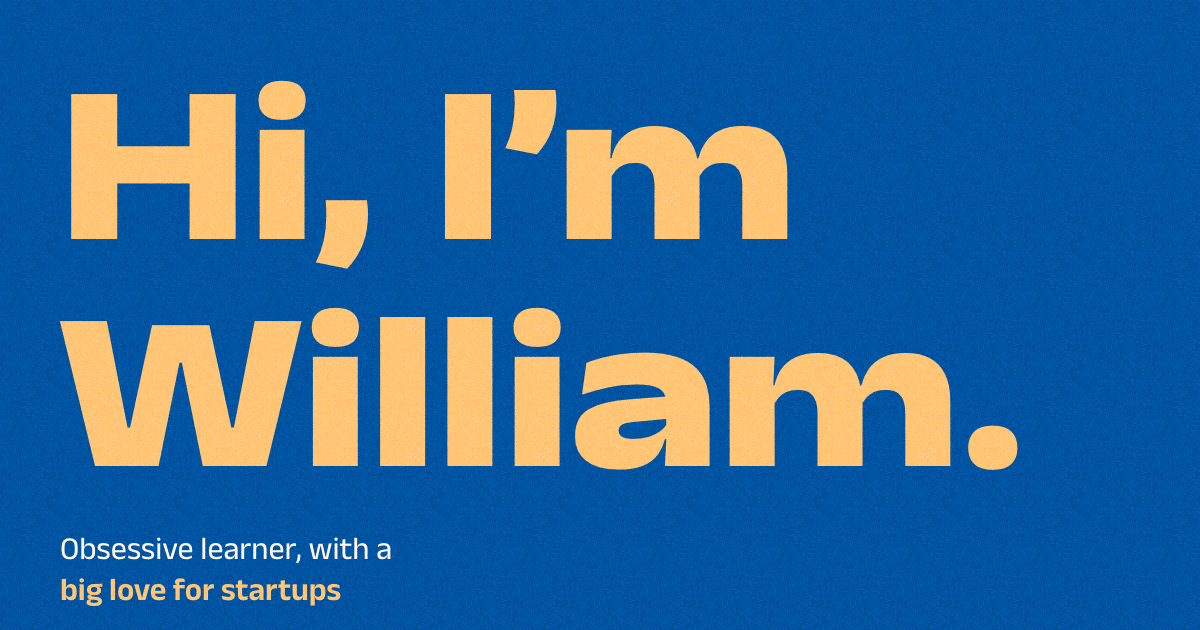
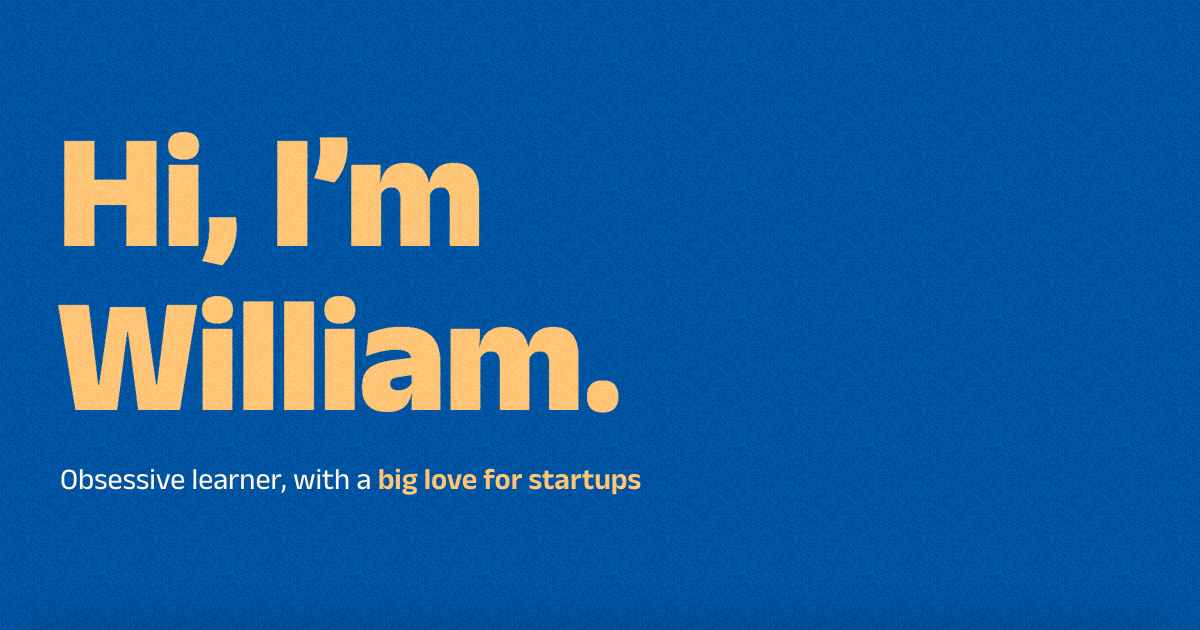
stretch the hero name under the mouse, and shrink it
The width-axis hover never showed on a laptop-shaped window. The name's
size is capped by the height there, so both lines rested at wdth 125, the
top of the axis, with no room to widen. Under a mouse the lines now rest
at wdth 100 at most, and the letters near the pointer swell to 125 while
the rest of the line squeezes. The line's total width is held exactly, so
it no longer runs past the margin when a letter stops at either end of
the axis. Touch screens keep lines that reach the right edge.

The name is capped at 26% of the hero's height instead of 31%, about 16%
smaller on desktop; phones are sized by their width and don't change. The
subtitle is one line, balanced onto two below 405px wide. The CSS
estimates follow both, so nothing jumps at load, and the share image is
retaken.

Changed region(s): [[0.0308, 0.4524, 0.8633, 0.7841], [0.0308, 0.1206, 0.6783, 0.4222], [0.0308, 0.8444, 0.3392, 0.9651]]

diff --git a/src/components/sections/Hero.tsx b/src/components/sections/Hero.tsx
@@ -8,6 +8,10 @@ import styles from "./Hero.module.css";
 const LINES = ["Hi, I’m", "William."];
 const MIN = 75;
 const MAX = 125;
+/** The widest a line rests at under a mouse: halfway along the axis. */
+const REST = 100;
+/** The name's size at most, as a fraction of the hero's height. */
+const HEIGHT = 0.26;
 
 type Letter = { el: HTMLElement; line: number; cx: number; cy: number; slope: number; p: number; w: number };
 
@@ -19,8 +23,9 @@ const fvs = (wdth: number) => `"wdth" ${wdth.toFixed(2)}, "wght" 800`;
  * Both lines share one size; each gets its own width (the font's `wdth` axis,
  * 75–125) so it reaches the right edge if it can. The name opens from its
  * narrowest once the font is in. Under a mouse, the letters nearest the
- * pointer widen and the rest of the line gives up the room, so its length
- * holds.
+ * pointer swell to the widest and the rest of the line squeezes to give up
+ * the room, so its length holds. For that to have room, a line under a mouse
+ * rests no wider than halfway along the axis.
  *
  * The server renders every letter at wdth 75 with a CSS estimate of the size,
  * which is exactly the animation's first frame: nothing jumps when this takes
@@ -52,7 +57,11 @@ export default function Hero() {
       })),
     );
     const reduce = prefersReducedMotion();
-    const hover = hasFinePointer() && !reduce;
+    // Under a mouse the lines rest at REST at most, reduced motion or not, so
+    // that only changes whether the name moves. A touch screen has nothing to
+    // make room for: there they reach the right edge.
+    const fine = hasFinePointer();
+    const hover = fine && !reduce;
 
     let base = lines.map(() => MIN);
     let fs = 0;
@@ -69,8 +78,9 @@ export default function Hero() {
     let my = 0;
     let disposed = false;
 
+    const rows = lines.map((_, i) => letters.filter((l) => l.line === i));
     const setLine = (i: number, wdth: number) => {
-      for (const l of letters) if (l.line === i) l.el.style.fontVariationSettings = fvs(wdth);
+      for (const l of rows[i]) l.el.style.fontVariationSettings = fvs(wdth);
     };
     const lineWidth = (i: number) => lines[i].getBoundingClientRect().width;
 
@@ -84,7 +94,7 @@ export default function Hero() {
       // One size for both lines, chosen so each can reach the full width
       // somewhere inside the axis range.
       name!.style.fontSize = "100px";
-      let hi = H * 0.31;
+      let hi = H * HEIGHT;
       let lo = 0;
       lines.forEach((_, i) => {
         setLine(i, MIN);
@@ -105,7 +115,7 @@ export default function Hero() {
           if (lineWidth(i) < W) a = m;
           else b = m;
         }
-        return a;
+        return fine ? Math.min(a, REST) : a;
       });
 
       // Each letter's width per unit of wdth, so the hover can widen some and
@@ -143,37 +153,47 @@ export default function Hero() {
       last = now;
       let busy = false;
 
-      const sum = lines.map(() => 0);
-      const weight = lines.map(() => 0);
-      for (const l of letters) {
-        if (hover) {
+      if (hover) {
+        for (const l of letters) {
           const dx = (l.cx - mx) / fs;
           const dy = (l.cy - my) / (fs * 0.85);
           const target = inside ? Math.exp(-(dx * dx + dy * dy)) : 0;
           l.p += (target - l.p) * (1 - Math.exp(-dt * 10));
           if (Math.abs(target - l.p) > 1e-3) busy = true;
         }
-        sum[l.line] += l.slope * l.p;
-        weight[l.line] += l.slope;
       }
 
-      for (const l of letters) {
-        const i = l.line;
+      rows.forEach((row, i) => {
         let b = base[i];
         if (!opened) {
           const e = clamp((now - t0 - 150 - i * 120) / 1100, 0, 1);
           if (e < 1) busy = true;
           b = lerp(MIN, base[i], easeOut3(e));
         }
-        // Push towards the pointer, pull back by the line's weighted mean so
-        // the total width is unchanged.
-        const amp = (MAX - base[i]) * 0.9;
-        const w = clamp(b + amp * (l.p - sum[i] / weight[i]), MIN, MAX);
-        if (Math.abs(w - l.w) > 0.05) {
-          l.w = w;
-          l.el.style.fontVariationSettings = fvs(w);
+        // Push towards the pointer by twice the room above the line, so the
+        // letter under it reaches the widest and its neighbours swell too.
+        // Then pull the whole line back by one offset, found so its total
+        // width is unchanged even where a letter stops at either end of the
+        // axis.
+        const amp = (MAX - base[i]) * 2;
+        const at = (l: Letter, c: number) => clamp(b + amp * (l.p - c), MIN, MAX);
+        let lo = 0;
+        let hi = 1;
+        for (let k = 0; k < 20; k++) {
+          const c = (lo + hi) / 2;
+          let grow = 0;
+          for (const l of row) grow += l.slope * (at(l, c) - b);
+          if (grow > 0) lo = c;
+          else hi = c;
         }
-      }
+        for (const l of row) {
+          const w = at(l, (lo + hi) / 2);
+          if (Math.abs(w - l.w) > 0.05) {
+            l.w = w;
+            l.el.style.fontVariationSettings = fvs(w);
+          }
+        }
+      });
       if (!opened && !busy) opened = true;
       if (busy) raf = requestAnimationFrame(frame);
       else last = 0;
@@ -263,9 +283,7 @@ export default function Hero() {
         ))}
       </h1>
       <p ref={subRef} className={styles.sub}>
-        Obsessive learner, with a
-        <br />
-        <span className={styles.hl}>big love for startups</span>
+        Obsessive learner, with a <span className={styles.hl}>big love for startups</span>
       </p>
     </section>
   );

diff --git a/src/components/sections/Hero.module.css b/src/components/sections/Hero.module.css
@@ -13,15 +13,32 @@
   --hgx: 4.6667cqw;
   --sub: clamp(19px, 2.6667cqw, 30px);
   /* What Hero.tsx's fit() will choose, in CSS. With W the width between the
-     margins (90.667cqw), the size is 31% of the height when that's the
+     margins (90.667cqw), the size is 26% of the height when that's the
      limit, and otherwise the geometric mean of the size where "William." at
      wdth 75 fills W and the size where "Hi, I'm" at wdth 125 does. That
      mean is replaced by its chord (within a pixel). The constants are those
      two lines' widths in Anek Latin 800: 261.3 and 325.8 at 100px. */
-  --est: min(31cqh, clamp(27.829cqw, 14.683cqw + 14.646cqh, 31.074cqw));
+  --est: min(26cqh, clamp(27.829cqw, 14.682cqw + 12.283cqh, 31.074cqw));
   /* Likewise fit()'s top: the group a little above centre, never nearer the
-     top than 7.5%. */
-  --top-est: max(7.5cqh, calc((100cqh - 2 * var(--est) - var(--gap) - 2.6 * var(--sub)) * 0.45));
+     top than 7.5%. The subtitle is one line, or two on a narrow screen. */
+  --sub-lines: 1;
+}
+
+.name,
+.sub {
+  --top-est: max(
+    7.5cqh,
+    calc((100cqh - 2 * var(--est) - var(--gap) - 1.3 * var(--sub-lines) * var(--sub)) * 0.45)
+  );
+}
+
+/* The subtitle is 19.2em long, and 19px under 712px wide: below 405px it
+   no longer fits between the margins. */
+@container (width < 405px) {
+  .name,
+  .sub {
+    --sub-lines: 2;
+  }
 }
 
 .name {
@@ -50,12 +67,14 @@
 .sub {
   position: absolute;
   left: 5cqw;
+  right: 5cqw;
   top: calc(var(--top, var(--top-est)) + 2 * var(--fs, var(--est)) + var(--gap));
   margin: 0;
   font-size: var(--sub);
   line-height: 1.3;
   font-weight: 450;
   color: var(--cream);
+  text-wrap: balance;
 }
 
 .hl {
